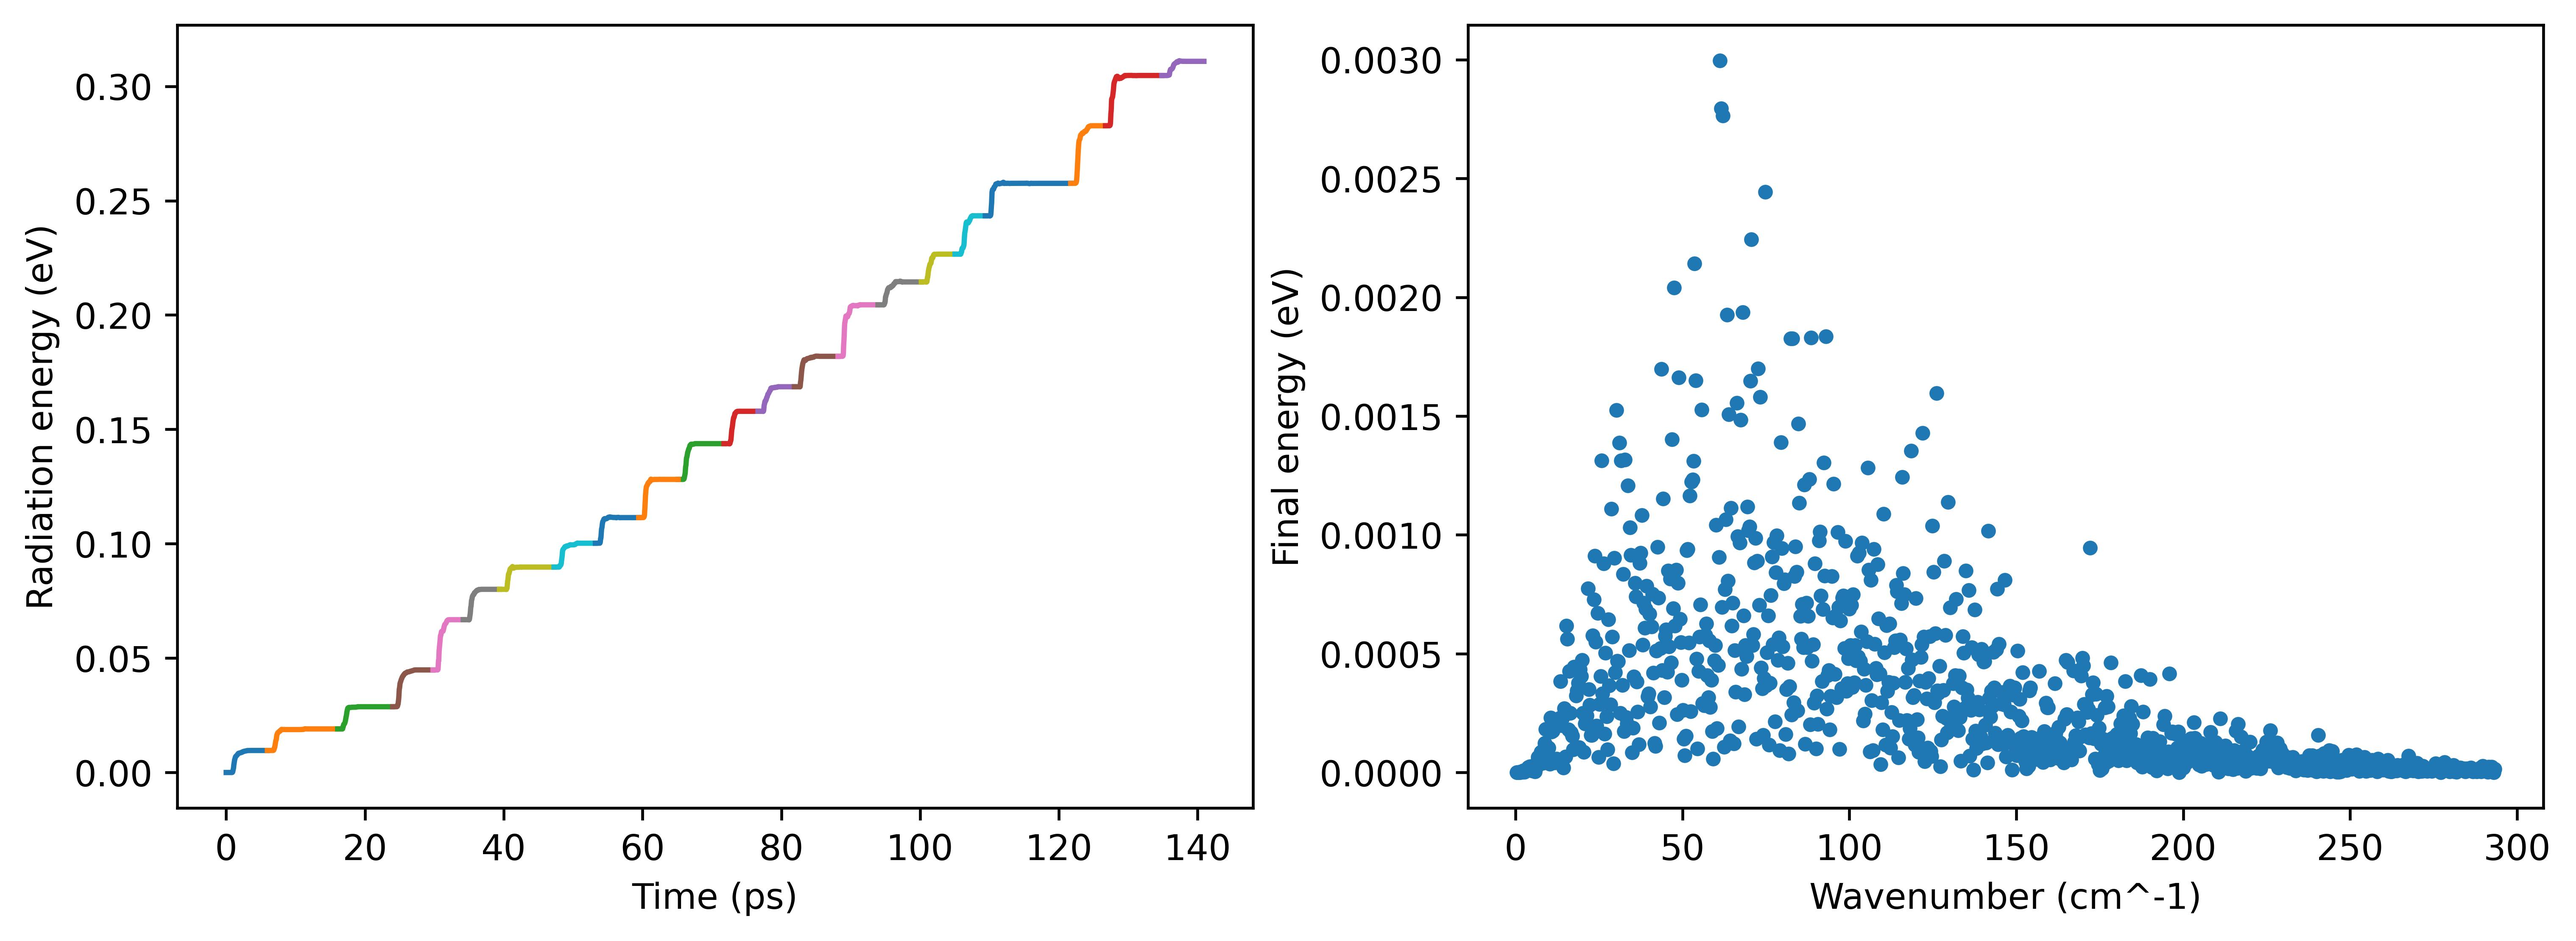
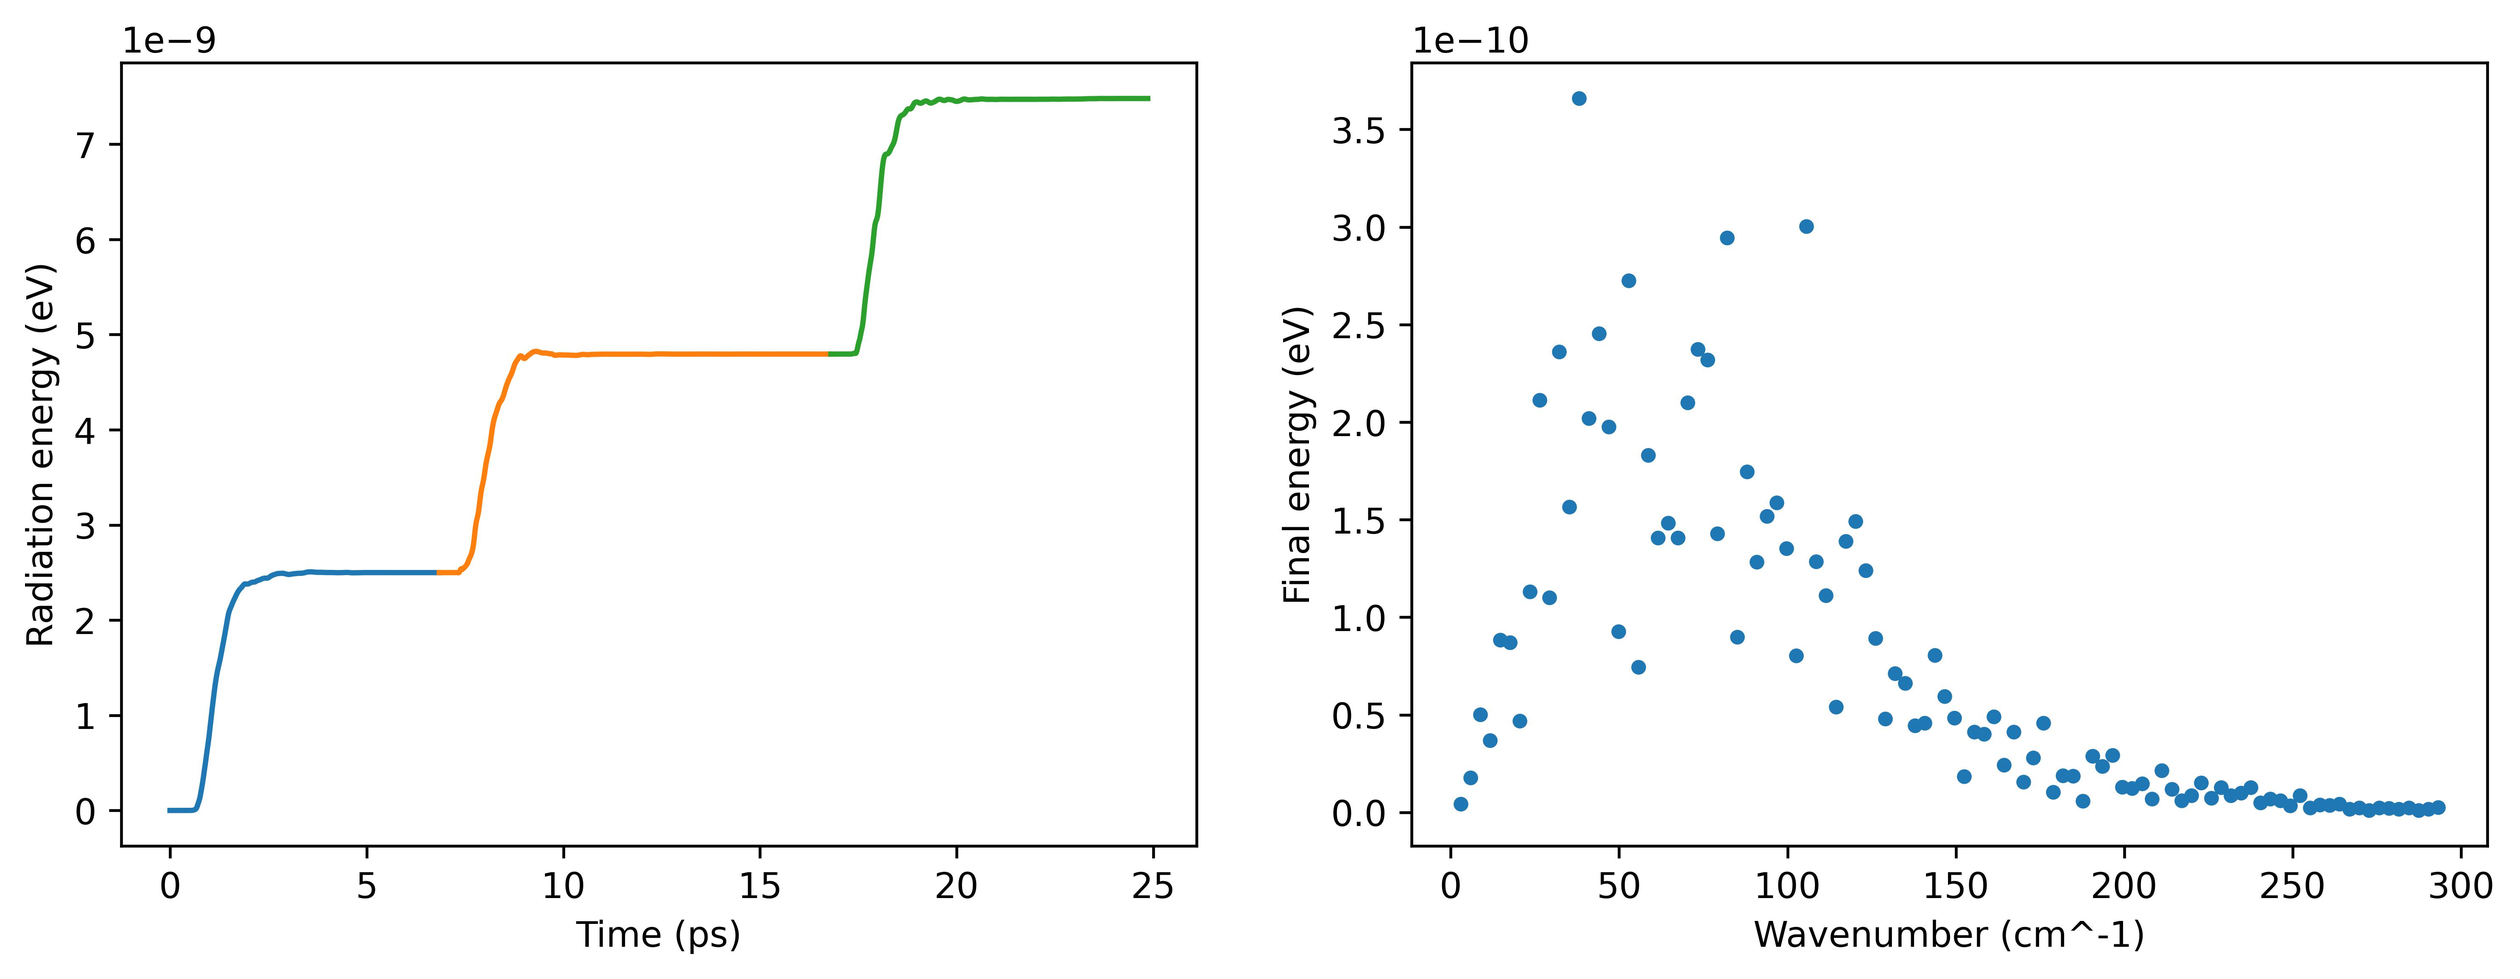
Jul 4th 2024

diff --git a/src/calculator/calculator.py b/src/calculator/calculator.py
@@ -3,7 +3,7 @@ from .distance import DistanceCalculator
 from .utils import PBC_wrapping
 
 from .function import LJ_force, LJ_potential, \
-    Grigoriev_dipole, Grigoriev_dipole_grad, generate_dipole_mask
+    Grigoriev_dipole_, Grigoriev_dipole_grad_, generate_dipole_mask
 
 class Calculator(DistanceCalculator):
     """
@@ -30,7 +30,7 @@ class Calculator(DistanceCalculator):
     """
     def __init__(
         self, N, box_length, epsilon, sigma, 
-        positive_atom_idx, negative_atom_idx, mu0, a, d
+        positive_atom_idx, negative_atom_idx, mu0, a, d, d7
         ):
 
         super().__init__(N, box_length)
@@ -47,6 +47,7 @@ class Calculator(DistanceCalculator):
         self.mu0 = mu0
         self.a = a
         self.d = d
+        self.d7 = d7
 
     def clear(self):
         self.distance_matrix = None
@@ -146,9 +147,9 @@ class Calculator(DistanceCalculator):
         distance = self.distance_matrix[mask]
         distance_vec = self.distance_vec_tensor[mask_x3].reshape(-1,3)
 
-        dipole = Grigoriev_dipole(
+        dipole = Grigoriev_dipole_(
                 distance = distance, distance_vec = distance_vec, 
-                mu0 = self.mu0, a = self.a, d = self.d)
+                mu0 = self.mu0, a = self.a, d = self.d, d7 = self.d7)
 
         # rearrange the result array into N x N x 3 matrix form 
         dipole = self.matrix_reconstruct(
@@ -178,9 +179,9 @@ class Calculator(DistanceCalculator):
         distance = self.distance_matrix[mask]
         distance_vec = self.distance_vec_tensor[mask_x3].reshape(-1,3)
 
-        gradient = Grigoriev_dipole_grad(
+        gradient = Grigoriev_dipole_grad_(
             distance = distance, distance_vec = distance_vec,
-            mu0 = self.mu0, a = self.a, d = self.d)
+            mu0 = self.mu0, a = self.a, d = self.d, d7 = self.d7)
 
         # rearrange the result array into N x N x 3 matrix form 
         gradient = self.matrix_reconstruct(

diff --git a/src/simulation_monte.py b/src/simulation_monte.py
@@ -12,7 +12,7 @@ from matter.atoms import AtomsInBox
 from matter.utils import AllInOneSampler
 
 from field.electromagnetic import FreeVectorPotential,CavityVectorPotential
-from field.utils import EM_mode_generate_,EM_mode_generate
+from field.utils import EM_mode_generate_,EM_mode_generate, EM_mode_generate3
 
 import utilities.reduced_parameter as red
 
@@ -21,13 +21,13 @@ import utilities.reduced_parameter as red
             ### EMPTY PARAMETERS ###
             ########################
             ########################
-L = 1e8
+L = 1e7
 cell_width = 1e4
 
 t = 0
 h = 1e-2
 
-np.random.seed(2)
+np.random.seed(715)
 
 K_temp = 292
 
@@ -38,8 +38,8 @@ K_temp = 292
             ##########################
 
 k_vector = np.array(
-        EM_mode_generate_(
-            max_n = 1000, min_n = 1, n_vec_per_kz  = 1),
+        EM_mode_generate3(
+            max_n = 100, min_n = 1),
         dtype=np.float64)
 print(len(k_vector))
 
@@ -77,7 +77,7 @@ Afield = CavityVectorPotential(
             ### INITIATE ATOMS BOX ###
             ##########################
             ##########################
-N_atom_pairs = 32
+N_atom_pairs = 1024
 
 def initiate_atoms_box():
     atoms = AtomsInBox(
@@ -95,7 +95,7 @@ def initiate_atoms_box():
         calculator_kwargs = {
             "epsilon": epsilon_mat, "sigma" : sigma_mat, 
             "positive_atom_idx" : idxXe, "negative_atom_idx" : idxAr,
-            "mu0" : red.mu0 * 1e5, "d" : red.d0, "a" : red.a
+            "mu0" : red.mu0, "d" : red.d0, "a" : red.a, "d7": red.d7
         })
 
     return atoms
@@ -113,7 +113,7 @@ sampler = AllInOneSampler(
             ############################
             ############################
 
-for i in range(40):
+for i in range(10):
     sample = sampler()
     r_ar, r_xe = sample["r"]
     r_dot_ar, r_dot_xe = sample["r_dot"]

diff --git a/src/calculator/function.py b/src/calculator/function.py
@@ -48,7 +48,7 @@ def generate_dipole_mask(positive_atom_idx, negative_atom_idx, all_distance = Fa
     return r_pn
 
 def Grigoriev_dipole(distance, distance_vec, mu0, a, d):
-    dipole = mu0 * np.exp(-a * (distance - d)) 
+    dipole = mu0 * np.exp(-a * (distance - d))
 
     dipole = np.tile(
            dipole[:,np.newaxis], (1,3))
@@ -71,3 +71,32 @@ def Grigoriev_dipole_grad(distance, distance_vec, mu0, a, d):
 
     return gradient
 
+def Grigoriev_dipole_(distance, distance_vec, mu0, a, d, d7):
+    dipole = mu0 * np.exp(-a * (distance - d)) - d7/distance**7
+
+    dipole = np.tile(
+           dipole[:,np.newaxis], (1,3))
+
+    # multiplying with distance vec to generate distance vector
+    dipole *= distance_vec
+
+    return dipole
+
+def Grigoriev_dipole_grad_(distance, distance_vec, mu0, a, d, d7):
+    distance = np.tile(distance[:,np.newaxis,np.newaxis], (1,3,3))
+
+    exp_ad = np.exp(-a * (distance - d))
+
+    distance_outer = np.einsum("ij,ik->ijk", distance_vec, distance_vec)
+
+    gradient1 = (- a * exp_ad / distance + 7*d7 / distance ** 9) * distance_outer
+    gradient1 /= distance
+
+    gradient2 = - distance_outer * (exp_ad - d7/distance**7)
+    gradient2 /= distance ** 3
+
+    gradient3 = ((exp_ad - d7/distance**7) / distance) * np.eye(3)
+
+    gradient = mu0 * ( gradient1 + gradient2 + gradient3 )
+
+    return gradient

diff --git a/src/analysis.py b/src/analysis.py
@@ -33,9 +33,11 @@ for file in glob(PICKLE_PATH):
 file_list =sorted(file_list)
 final_time = 0
 profilefile = None
-for file in file_list:
+for i,file in enumerate(file_list):
 
     print(file)
+
+    if i >= 3: break
 
     with open(file,"rb") as handle:
         result = pickle.load(handle)
@@ -48,6 +50,7 @@ for file in file_list:
 
     print(total_energy[0])
     print(total_energy[1])
+    print(total_energy[1] * red.epsilon * 6.242e11 )
 
     time = np.array(atoms.observable["t"]) * red.time_unit * 1e12
 
@@ -90,6 +93,7 @@ ax3[1].set_xlabel("Xenon velocity (km/s)")
 
 ax1[0].set_xlabel("Time (ps)")
 ax1[1].scatter(omega_profile, rad_profile, s = 10)
+print(len(omega_profile))
 ax1[1].set_xlabel("Wavenumber (cm^-1)")
 ax1[1].set_ylabel("Final energy (eV)")
 

diff --git a/src/utilities/reduced_parameter.py b/src/utilities/reduced_parameter.py
@@ -54,13 +54,16 @@ mass_dict = {"Ar": 39.948 / M_ , "Xe" : 131.293 / M_}
 
 bohr_rad, _, _ = physical_constants["Bohr radius"]
 
-mu0 = (0.0124 * e_charge * bohr_rad * 3e11) / ( dipole_unit)
+#mu0 = (0.0124 * e_charge * bohr_rad * 3e11) / ( dipole_unit)
+mu0 = (0.0284 * e_charge * bohr_rad * 3e11) / ( dipole_unit)
 
 bohr_rad *= 1e2
 
-a = 1.5121 * sigma / bohr_rad
+#a = 1.5121 * sigma / bohr_rad
+a = 1.22522 * sigma / bohr_rad
 
 d0 = 7.10 * bohr_rad / sigma
+d7 = 14200 * (bohr_rad / sigma) ** 7
 
 #####################################
 ### Calculating reduced constants ###

diff --git a/src/field/utils.py b/src/field/utils.py
@@ -125,6 +125,15 @@ def EM_mode_generate_(max_n, n_vec_per_kz = 1, min_n = 1):
         modes_list.append(mode_vector)
     return np.vstack(modes_list)
 
+def EM_mode_generate3(max_n,min_n = 1):
+    mode_list = []
+    for i in range(min_n, max_n+1):
+        mode_list.append([i,0,0])
+        mode_list.append([0,i,0])
+        mode_list.append([0,0,i])
+
+    return np.vstack(mode_list)
+
 def profiling_rad(omega_list,Hrad):
 
     unique_omega = list(set(omega_list))
